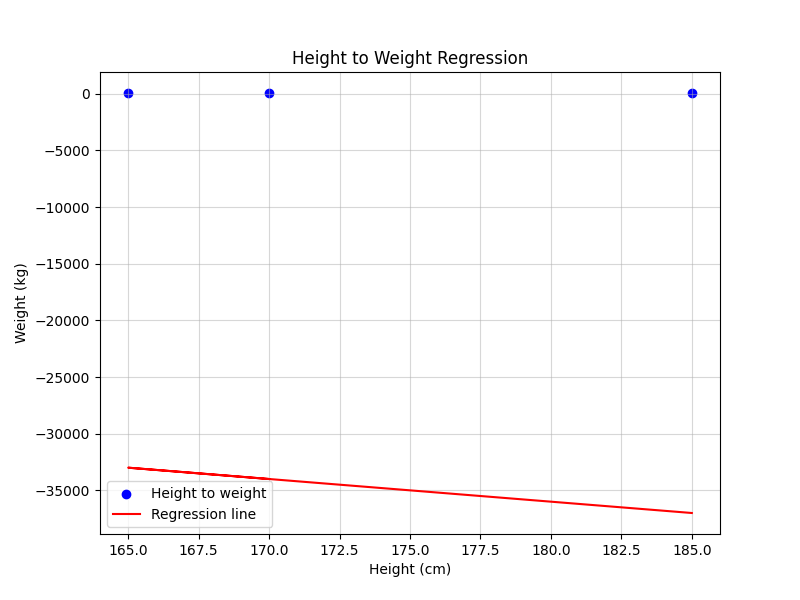
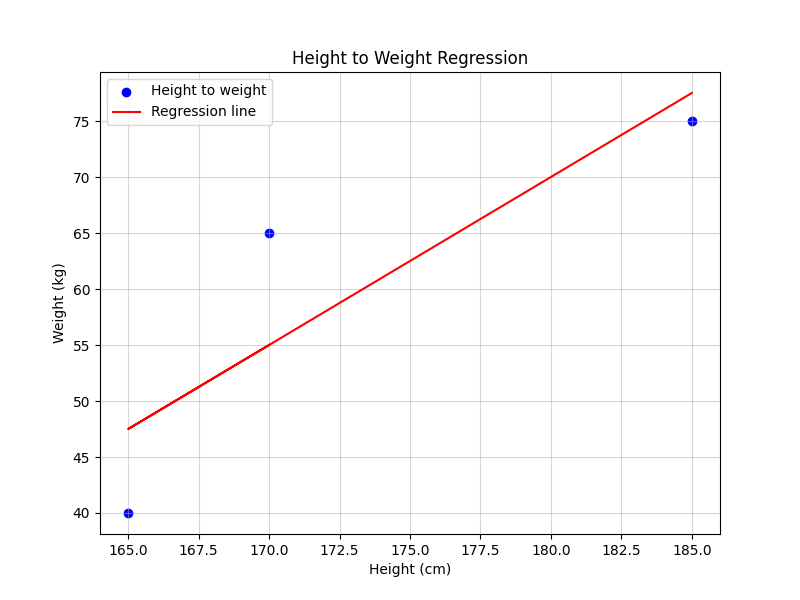
fixes

diff --git a/main.py b/main.py
@@ -10,47 +10,47 @@ from fastapi.responses import FileResponse
 from fastapi import FastAPI, UploadFile, File
 import io
 
-# def main(data):
-#     print(FindMAE(data).CalculateMAE())
-#     print(Table(data).BuildTable())
-#
-#     Graph(data).BuildGraph()
-#
-#
-#
-#
-# main(np.genfromtxt('externals/body.csv', delimiter=',', skip_header=1))
+def main(data):
+    print(FindMAE(data).CalculateMAE())
+    print(Table(data).BuildTable())
+
+    Graph(data).BuildGraph()
+
+
+
+
+main(np.genfromtxt('externals/body.csv', delimiter=',', skip_header=1))
 
 
 
 app = FastAPI()
 
 
-@app.post("/analyze")
-async def analyze_data(file: UploadFile = File(...)):
-    # 1. Read the uploaded file into a NumPy array
-    content = await file.read()
-    raw_data = np.genfromtxt(io.BytesIO(content), delimiter=',', skip_header=1)
-
-
-
-    mae_calculator = FindMAE(raw_data)
-    mae_value = mae_calculator.CalculateMAE()
-
-    Graph(raw_data).BuildGraph()
-
-    # 3. Return the JSON (This is the "Output" for Task 14)
-    return {
-        "coefficients": {
-            "slope_a": float(mae_calculator.a),
-            "intercept_b": float(mae_calculator.b)
-        },
-        'metrics': mae_value,
-        'table': Table(raw_data).BuildTable().to_dict(),
-        "status": "Success"
-
-    }
-
-@app.get("/view-graph")
-async def view_graph():
-    return FileResponse("result.png")
+# @app.post("/analyze")
+# async def analyze_data(file: UploadFile = File(...)):
+#     # 1. Read the uploaded file into a NumPy array
+#     content = await file.read()
+#     raw_data = np.genfromtxt(io.BytesIO(content), delimiter=',', skip_header=1)
+#
+#
+#
+#     mae_calculator = FindMAE(raw_data)
+#     mae_value = mae_calculator.CalculateMAE()
+#
+#     Graph(raw_data).BuildGraph()
+#
+#     # 3. Return the JSON (This is the "Output" for Task 14)
+#     return {
+#         "coefficients": {
+#             "slope_a": float(mae_calculator.a),
+#             "intercept_b": float(mae_calculator.b)
+#         },
+#         'metrics': mae_value,
+#         'table': Table(raw_data).BuildTable().to_dict(),
+#         "status": "Success"
+#
+#     }
+#
+# @app.get("/view-graph")
+# async def view_graph():
+#     return FileResponse("result.png")

diff --git a/Graph.py b/Graph.py
@@ -13,7 +13,7 @@ class Graph(FindMAE):
         plt.scatter(self.clean_x, self.clean_y, color = "blue", label = "Height to weight")
 
         line_x = self.clean_x
-        line_y = self.a + self.b * line_x
+        line_y = self.b + self.a * line_x
 
         plt.plot(line_x, line_y, color = "red", label = "Regression line")
 
@@ -25,5 +25,6 @@ class Graph(FindMAE):
 
 
         plt.legend()
+
         return plt.savefig("result.png")
 
